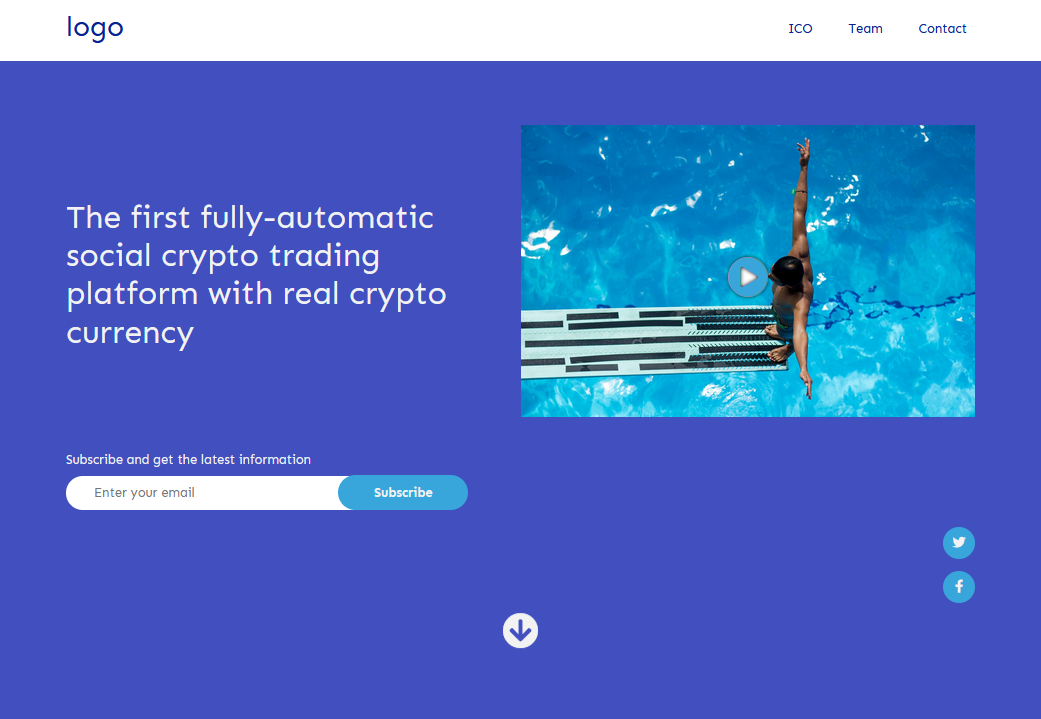
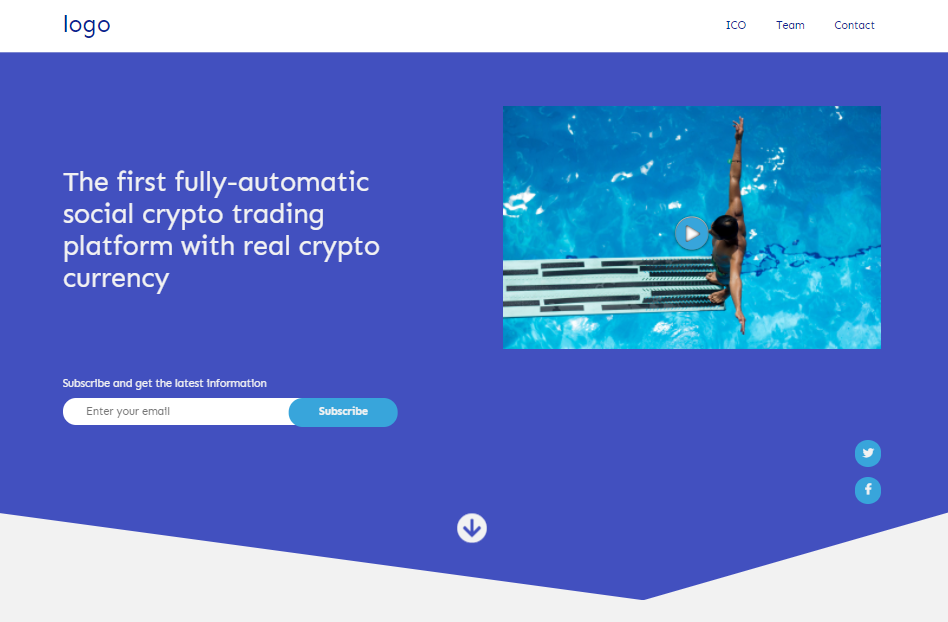
add clip-path property to the header to make an irregular shape of this section; update the screenshots folder

diff --git a/css/main.css b/css/main.css
@@ -77,7 +77,8 @@ nav .active {
 /* HEADER */
 .header--desktop, .header--mobile {
     padding: 80px 100px;
-    box-shadow: 0px 4px 80px #263396;
+    clip-path: polygon(0 0, 100% 0%, 100% 84%, 68% 100%, 0 84%);
+    /* box-shadow: 0px 4px 80px #263396; */
     background-color: #4250BF;
 }
 .header__top, .header__social-ico, .header__arrow-btn, .header__arrow-btn--mobile {

diff --git a/css/small.css b/css/small.css
@@ -1,4 +1,8 @@
 /* max-width: 576px */
+.header--desktop, .header--mobile {
+    clip-path: polygon(0 0, 100% 0%, 100% 84%, 100% 100%, 0 92%);
+}
+
 .contact__form {
     max-width: 350px;
 }
